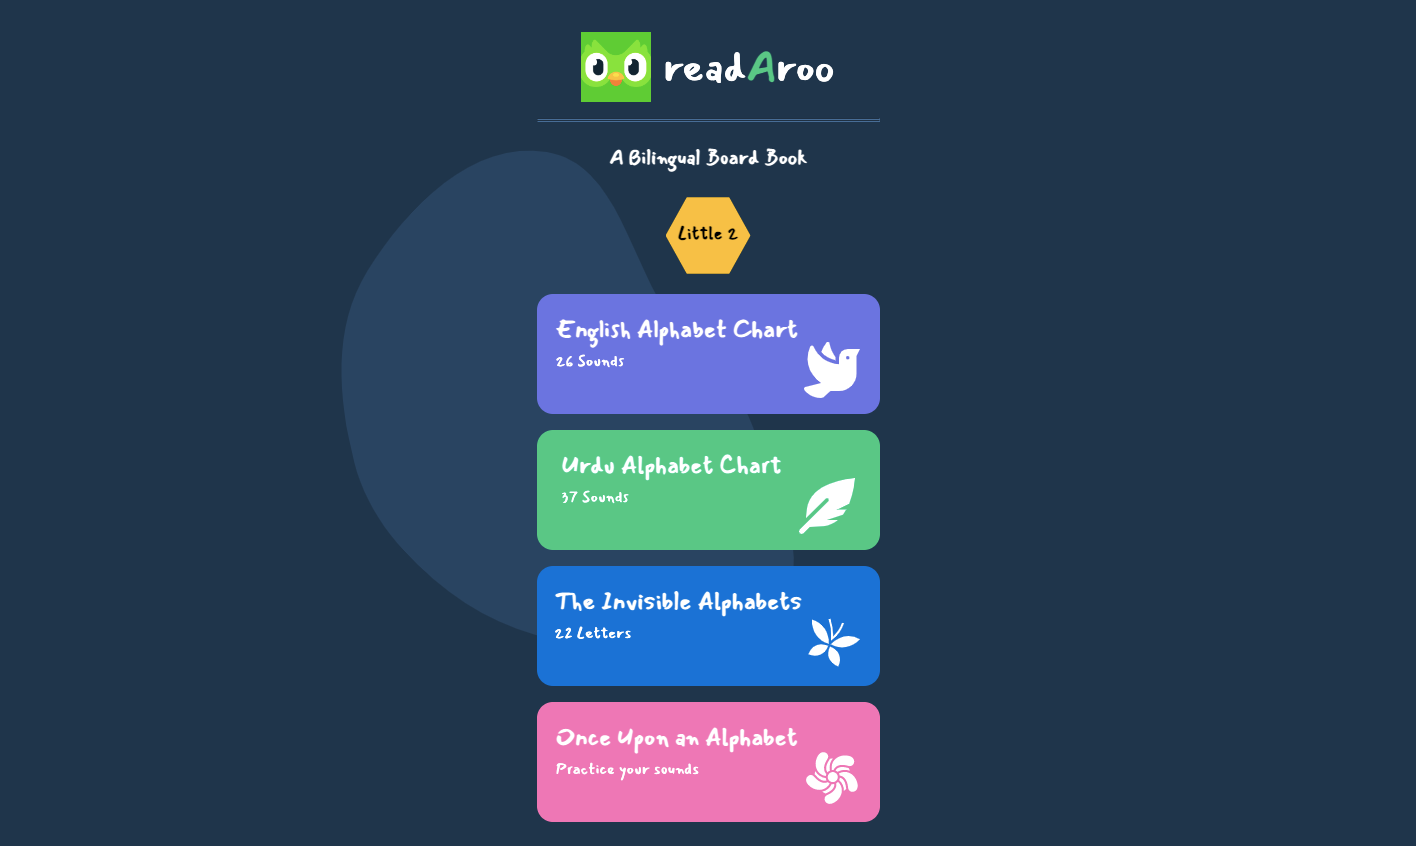
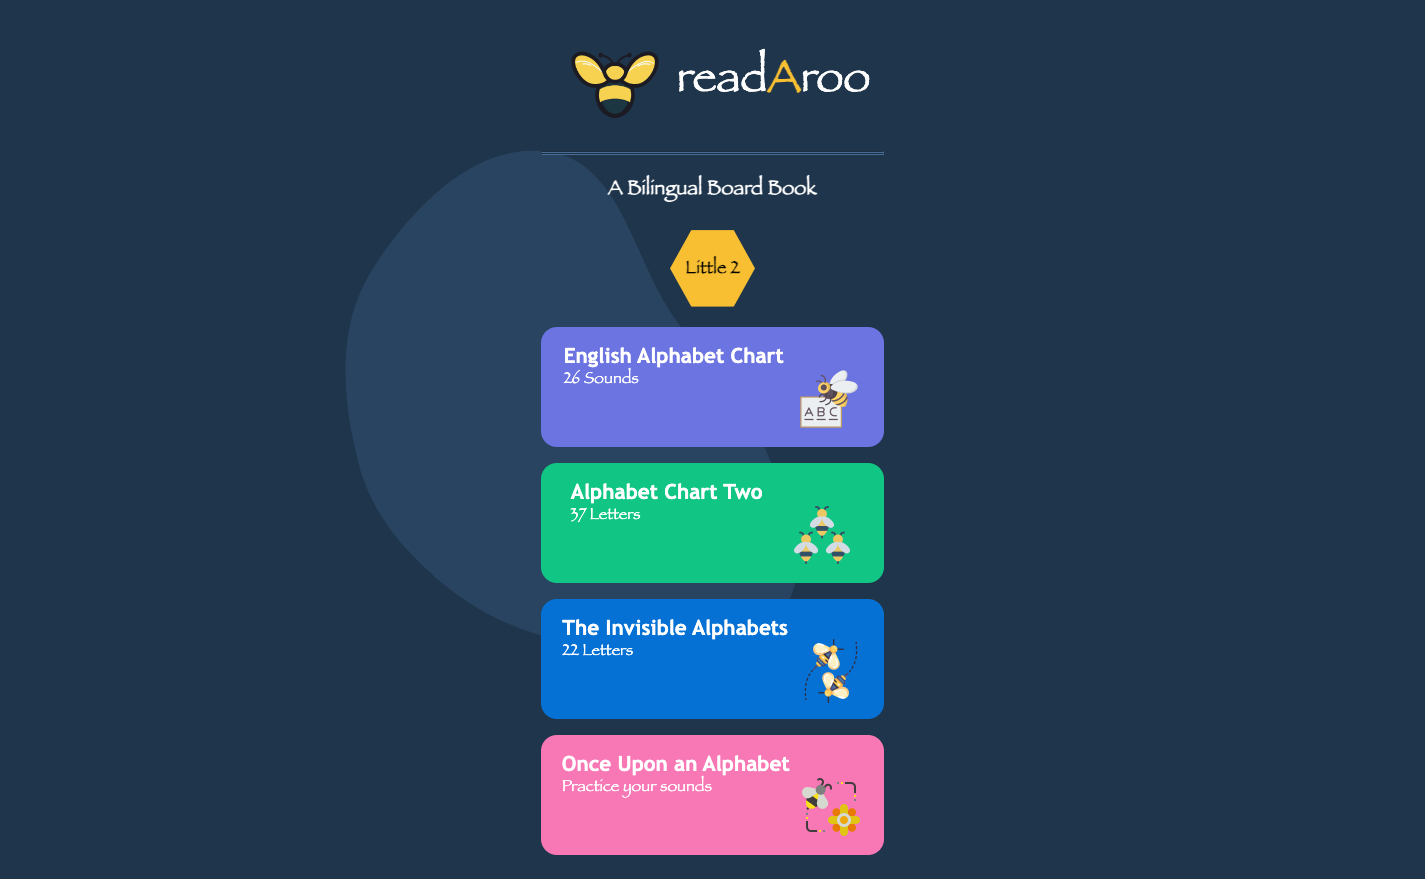
build

Changed region(s): [[0.3729, 0.0307, 0.6215, 0.922], [0.5593, 0.8913, 0.6215, 0.9527]]

diff --git a/index.html b/index.html
@@ -36,34 +36,28 @@
                     <a href="en-alphabet_chart.html">
                         <div class="phase-two">
                             <div>
-                                <h2>English Alphabet Chart</h2>
+                                <h2>EN Lang Alphabet Chart</h2>
                                 <p>26 Sounds</p>
                             </div>
-                            <svg stroke="currentColor" fill="currentColor" stroke-width="0" viewBox="0 0 512 512" class="dove" height="1em" width="1em" xmlns="http://www.w3.org/2000/svg">
-                                <path d="M288 167.2v-28.1c-28.2-36.3-47.1-79.3-54.1-125.2-2.1-13.5-19-18.8-27.8-8.3-21.1 24.9-37.7 54.1-48.9 86.5 34.2 38.3 80 64.6 130.8 75.1zM400 64c-44.2 0-80 35.9-80 80.1v59.4C215.6 197.3 127 133 87 41.8c-5.5-12.5-23.2-13.2-29-.9C41.4 76 32 115.2 32 156.6c0 70.8 34.1 136.9 85.1 185.9 13.2 12.7 26.1 23.2 38.9 32.8l-143.9 36C1.4 414-3.4 426.4 2.6 435.7 20 462.6 63 508.2 155.8 512c8 .3 16-2.6 22.1-7.9l65.2-56.1H320c88.4 0 160-71.5 160-159.9V128l32-64H400zm0 96.1c-8.8 0-16-7.2-16-16s7.2-16 16-16 16 7.2 16 16-7.2 16-16 16z"></path>
-                            </svg>
+                            <img class="homeimg" src="media/bird.png">
                         </div>
                     </a>
-                    <a href="alpha.html">
+                    <a href="ur-alphabet_chart.html">
                         <div class="phase-three">
                             <div>
-                                <h2>French Alphabet Chart</h2>
-                                <p>37 Sounds</p>
+                                <h2>UR Lang Alphabet Chart</h2>
+                                <p>37 Letters</p>
                             </div>
-                            <svg stroke="currentColor" fill="currentColor" stroke-width="0" viewBox="0 0 512 512" class="feather" height="1em" width="1em" xmlns="http://www.w3.org/2000/svg">
-                                <path d="M512 0C460.22 3.56 96.44 38.2 71.01 287.61c-3.09 26.66-4.84 53.44-5.99 80.24l178.87-178.69c6.25-6.25 16.4-6.25 22.65 0s6.25 16.38 0 22.63L7.04 471.03c-9.38 9.37-9.38 24.57 0 33.94 9.38 9.37 24.59 9.37 33.98 0l57.13-57.07c42.09-.14 84.15-2.53 125.96-7.36 53.48-5.44 97.02-26.47 132.58-56.54H255.74l146.79-48.88c11.25-14.89 21.37-30.71 30.45-47.12h-81.14l106.54-53.21C500.29 132.86 510.19 26.26 512 0z"></path>
-                            </svg>
+                            <img class="homeimg" src="media/butterfly.png">
                         </div>
                     </a>
-                        <a href="/">
+                        <a href="alpha.html">
                             <div class="phase-five">
                                 <div>
                                     <h2>The Invisible Alphabets</h2>
-                                    <p>22 Letters</p>
+                                    <p>26 Letters</p>
                                 </div>
-                                <svg stroke="currentColor" fill="currentColor" stroke-width="0" viewBox="0 0 512 512" class="butterfly" height="1em" width="1em" xmlns="http://www.w3.org/2000/svg">
-                                    <path d="M222.97 43.094l-17.72 5.937c18.246 54.362 27.075 112.164 24.406 174.47l-.875 20.5 16.032-12.78c47.213-37.597 81.827-86.216 102.282-146.095l-17.688-6.063c-17.04 49.88-44.08 90.906-80.656 124.22.156-56.652-8.915-109.937-25.78-160.188zM53.812 51.22C51.09 160.79 110.03 244.245 208.75 273c2.573-110.1-55.144-193.608-154.938-221.78zm335.156 150.374c-58.436-.03-115.656 25.943-163.5 76.094 90.775 49.848 192.148 32.407 268.217-47.563-34.172-19.135-69.658-28.513-104.718-28.53zM136.936 277.03c-52.45.582-94.1 32.36-116.687 91.25 82.336 33.03 151.56 4.26 182.72-77.374-23.333-9.574-45.51-14.102-66.032-13.875zm81.97 19.47c-37.76 80.056-8.793 149.03 75.343 183.094 37.786-80.46 9.994-149.316-75.344-183.094z"></path>
-                                </svg>
+                                <img class="homeimg" src="media/flower.png">
                             </div>
                         </a>
                             <a href="/">
@@ -72,9 +66,7 @@
                                         <h2>Once Upon an Alphabet</h2>
                                         <p>Practice your sounds</p>
                                     </div>
-                                    <svg stroke="currentColor" fill="currentColor" stroke-width="0" viewBox="0 0 512 512" class="feather" height="1em" width="1em" xmlns="http://www.w3.org/2000/svg">
-                                        <path d="M176.53 19.47c-.53-.004-1.058.014-1.593.03-.57.017-1.145.055-1.718.094-15.293 1.038-31.656 9.986-45.282 31.75-27.477 43.885-28.525 97.68-5.844 136.28 15.093 25.69 40.417 45.188 76.875 51.157.894-6.55 2.752-12.81 5.468-18.593-11.405-12.327-18.01-26.242-20.25-41.062-4.746-31.38 8.784-64.32 29.03-95.03 8.494-12.884 9.45-24.52 6.345-34.657-3.106-10.14-10.73-18.925-20.813-24.25-6.647-3.51-14.247-5.674-22.22-5.72zm198.064 29.75c-37.07.05-71.842 14.557-94.53 39.31-21.288 23.225-32.635 55.356-25.377 94.876 2.737-.356 5.514-.562 8.344-.562 2.248 0 4.468.118 6.658.344 8.678-17.88 21.282-30.383 36.687-37.782 28.608-13.74 64.078-10.445 99.375-.094 14.806 4.343 26.218 1.85 35-4.093 8.782-5.944 14.928-15.83 17.063-27.032 4.268-22.407-6.07-49.4-45.75-60.032-12.503-3.35-25.113-4.954-37.47-4.937zM261.688 77.812c-8.663 0-17.195.693-25.5 1.968-1.764 4.902-4.185 9.803-7.344 14.595-18.915 28.69-29.82 57.914-26.188 81.938 1.497 9.9 5.29 19.32 12.28 28.062 6.062-6.743 13.527-12.2 21.908-15.938-8.33-44.56 3.543-83.07 27.72-110.593-.962-.017-1.912-.03-2.877-.03zm89.25 77.312c-1.02-.006-2.027.01-3.032.03-12.502.25-23.856 2.493-33.437 7.095-10.745 5.16-19.894 13.197-26.658 25.563 7.123 2.976 13.615 7.19 19.188 12.375 23.372-13.382 47.298-19.12 70.094-18.407 13.43.422 26.462 3.095 38.75 7.72 1.19.448 2.356.924 3.53 1.406-3.043-9.002-6.843-17.637-11.312-25.875-2.49-.445-5.016-1.033-7.562-1.78-17.39-5.1-34.276-8.04-49.563-8.125zm-247.5 37.438c-3.102 9.498-5.397 19.366-6.75 29.53 3.844 2.94 7.526 6.417 10.937 10.47 22.13 26.29 47.062 45.03 71.125 48.375 8.972 1.246 18.1.6 27.438-2.657-3.463-6.362-5.905-13.37-7.063-20.78-43.162-6.468-74.965-29.445-93.156-60.406-.88-1.496-1.716-3.003-2.532-4.53zm266.968 7.562c-.9.016-1.813.053-2.72.094-15.917.71-32.434 5.25-48.998 14.436 3.44 5.8 5.974 12.198 7.468 18.97 15.995 2.598 29.416 9.17 40.156 19 23.413 21.425 33.575 55.573 37.125 92.186 1.49 15.36 8.058 25.004 16.844 30.938 8.788 5.934 20.25 7.946 31.44 5.75 22.38-4.39 43.58-24.057 38.655-64.844-6.206-51.403-39.195-93.918-81.094-109.687-12.274-4.62-25.35-7.09-38.874-6.845zM263.03 201.53c-25.51 0-46 20.49-46 46 0 25.513 20.49 46 46 46 25.513 0 45.97-20.487 45.97-46 0-25.51-20.457-46-45.97-46zM61.907 228.657c-10.602.097-21.184 4.94-29.156 13.094-15.944 16.31-22.248 44.514 4.938 75.313 34.262 38.815 85.546 55.12 129 44.343 27.786-6.89 52.807-24.442 69-55.312-6.75-3.17-12.853-7.468-18.094-12.656-13.844 6.054-27.785 7.923-41.406 6.03-31.435-4.367-59.187-26.733-82.875-54.874-9.937-11.804-20.805-16.034-31.407-15.938zM327.47 252.47c-.617 8.075-2.705 15.76-6.033 22.75 31.313 28.636 44.904 64.466 43.344 99.624 0 .03.003.062 0 .094 7.697-6.08 14.836-12.832 21.345-20.157-.567-2.634-1.007-5.363-1.28-8.186-3.318-34.205-13.235-63.786-31.158-80.188-7.17-6.563-15.722-11.45-26.218-13.937zm-16.408 38.25c-4.6 5.115-9.998 9.49-16 12.936 2.4 15.863.274 30.532-5.687 43.688-13.1 28.91-42.393 49.194-76.094 63.937-14.135 6.186-21.242 15.4-24.155 25.595-2.913 10.196-1.31 21.73 4.25 31.688 11.12 19.912 36.415 33.97 73.656 16.625 46.935-21.86 77.08-66.428 79.064-111.157 1.294-29.18-8.88-58.737-35.03-83.31zM277.47 310.56c-4.65 1.07-9.474 1.657-14.44 1.657-3.22 0-6.37-.26-9.467-.72-18.668 37.097-48.75 59.723-82.375 68.063-1.625.402-3.27.786-4.907 1.125 9.872 6.914 20.533 12.77 31.814 17.437 2.43-1.435 4.99-2.775 7.72-3.97 31.48-13.772 56.533-32.368 66.56-54.5 3.994-8.81 5.965-18.406 5.095-29.092z"></path>
-                                    </svg>
+                                    <img class="homeimg" src="media/leaf.png">
                                 </div>
                             </a>
                         </section>

diff --git a/ur-alphabet_chart.html b/ur-alphabet_chart.html
@@ -1,7 +1,7 @@
 <html lang="en">
 <head>
     <meta charset="utf-8"/>
-    <link rel="icon" href="./media/logo.jpeg"/>
+    <link rel="icon" href="./media/bee-logo.png"/>
     <meta name="viewport" content="width=device-width,initial-scale=1"/>
     <link rel="apple-touch-icon" sizes="180x180" href="/apple-touch-icon.png">
     <link rel="manifest" href="/site.webmanifest">
@@ -17,10 +17,10 @@
     <meta name="description" content="Web site created using javascript"/>
     <title>Alphabets - ReadAloud</title>
     <link href="https://fonts.googleapis.com/css2?family=Balsamiq+Sans:wght@700&family=Mansalva&display=swap" rel="stylesheet">
-    <link href="styles.css" type="text/css" rel="stylesheet" />
+    <link href="styles2.css" type="text/css" rel="stylesheet" />
 </head>
 <body>
-    <h1>Alphabet Chart</h1>
+    <h1>UR Alphabet Chart</h1>
     <p class="subheading">Read along the audio and see alphabets highlight below<p>
         <div id="alphabet" class="readaloud" data-readaloud-player="true">
             <audio id="ch01_readAloud">

diff --git a/styles2.css b/styles2.css
@@ -77,7 +77,7 @@ body {
   padding: 0;
   width: auto;
   overflow: visible;
-  background: #1e262e;
+  background: #567e8f;
   color: inherit;
   font: inherit;
   line-height: normal;
@@ -87,8 +87,8 @@ body {
   vertical-align: bottom;
   margin-right: 0.75em;
   min-height: 3.5em;
-  min-width: 6em;
-  /* border-radius: 50%; */
+  min-width: 5em;
+  border-radius: 25%;
   /* border: 2px solid #24408e; */
   /* background-color: transparent; */
   cursor: pointer;
@@ -98,7 +98,7 @@ body {
   display: block;
   content: "";
   /* height: 1em; */
-  width: 1em;
+  width: 0.1em;
   margin: 0 auto;
   border-color: transparent transparent transparent #f29f04;
   transition: 100ms all ease;
@@ -131,9 +131,9 @@ body {
 
 .customHighlighted {
   background-color: #eed9cb;
-  border-radius: 50%;
-  width: 2em;
-  height: 2em;
+  border-radius: 35%;
+  width: 1.4em;
+  height: 1.4em;
   justify-content: center;
   display: flex;
   align-items: center;

diff --git a/en-alphabet_chart.html b/en-alphabet_chart.html
@@ -20,7 +20,7 @@
     <link href="styles2.css" type="text/css" rel="stylesheet" />
 </head>
 <body>
-    <h1>Alphabet Chart</h1>
+    <h1>EN Alphabet Chart</h1>
     <p class="subheading">Read along the audio and see alphabets highlight below<p>
         <div id="alphabet" class="readaloud" data-readaloud-player="true">
             <audio id="ch01_readAloud">

diff --git a/alpha.html b/alpha.html
@@ -9,7 +9,7 @@
     <link href="styles2.css" type="text/css" rel="stylesheet" />
 </head>
 <body>
-    <h1>Alphabet</h1>
+    <h1>Alphabet Board</h1>
     <p class="subheading">Read along the alphabets<p>
         <div id="alphabet"></div>
     <script src="script.js"></script>

diff --git a/styles1.css b/styles1.css
@@ -88,6 +88,11 @@
   .home-section {
     padding-bottom: 0.5em;
   }
+
+  .homeimg {
+    width: 4rem;
+    margin-top: auto;
+  }
   
   .phase-two, .phase-three, .phase-five, .quiz-button, .game-button  {
       border-radius: 16px;

diff --git a/README.md b/README.md
@@ -5,3 +5,5 @@
 
 <img src="chartone.png" alt="readAroo chart" />
 
+<img src="charttwo.png" alt="readAroo chart" />
+
